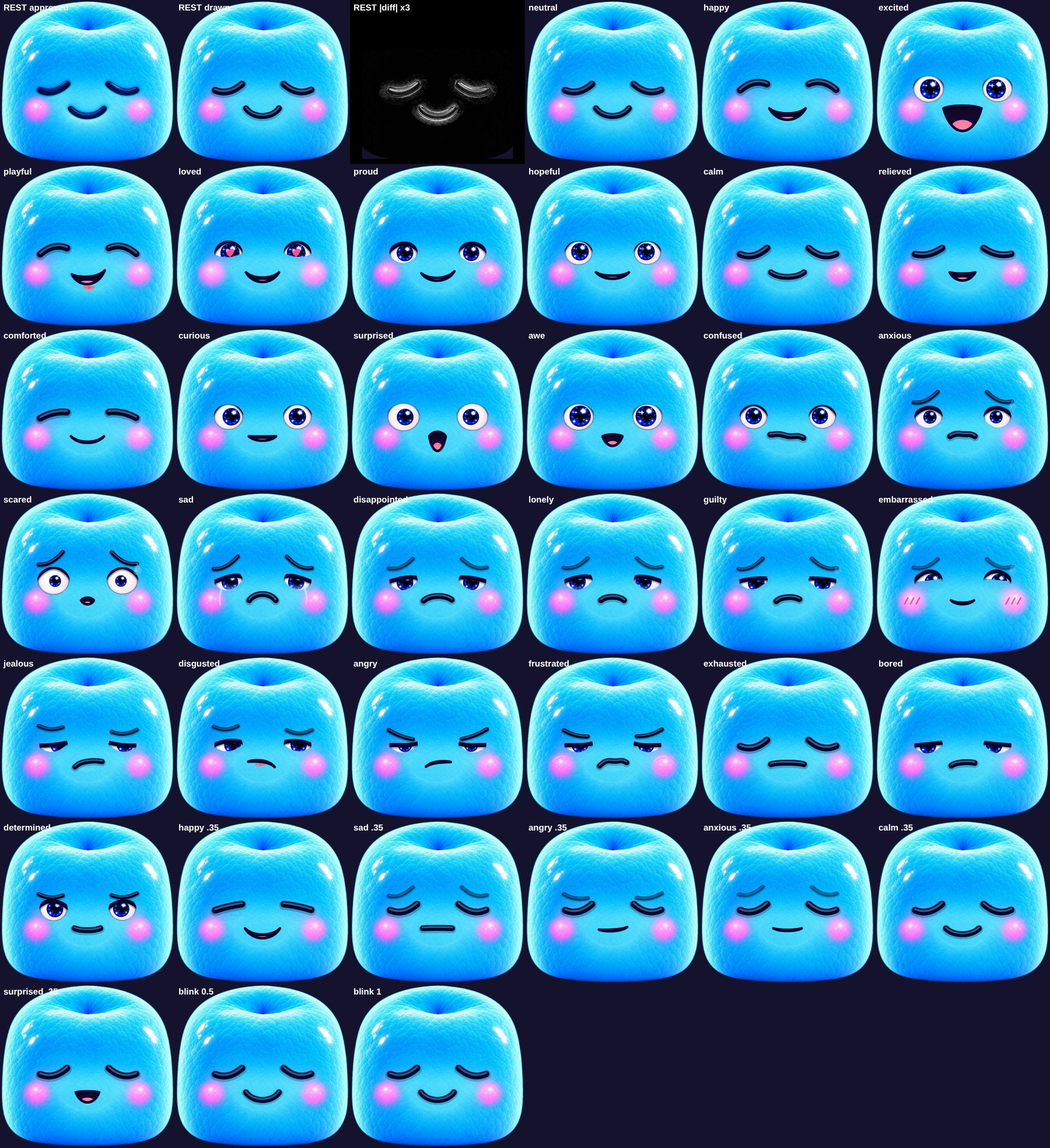
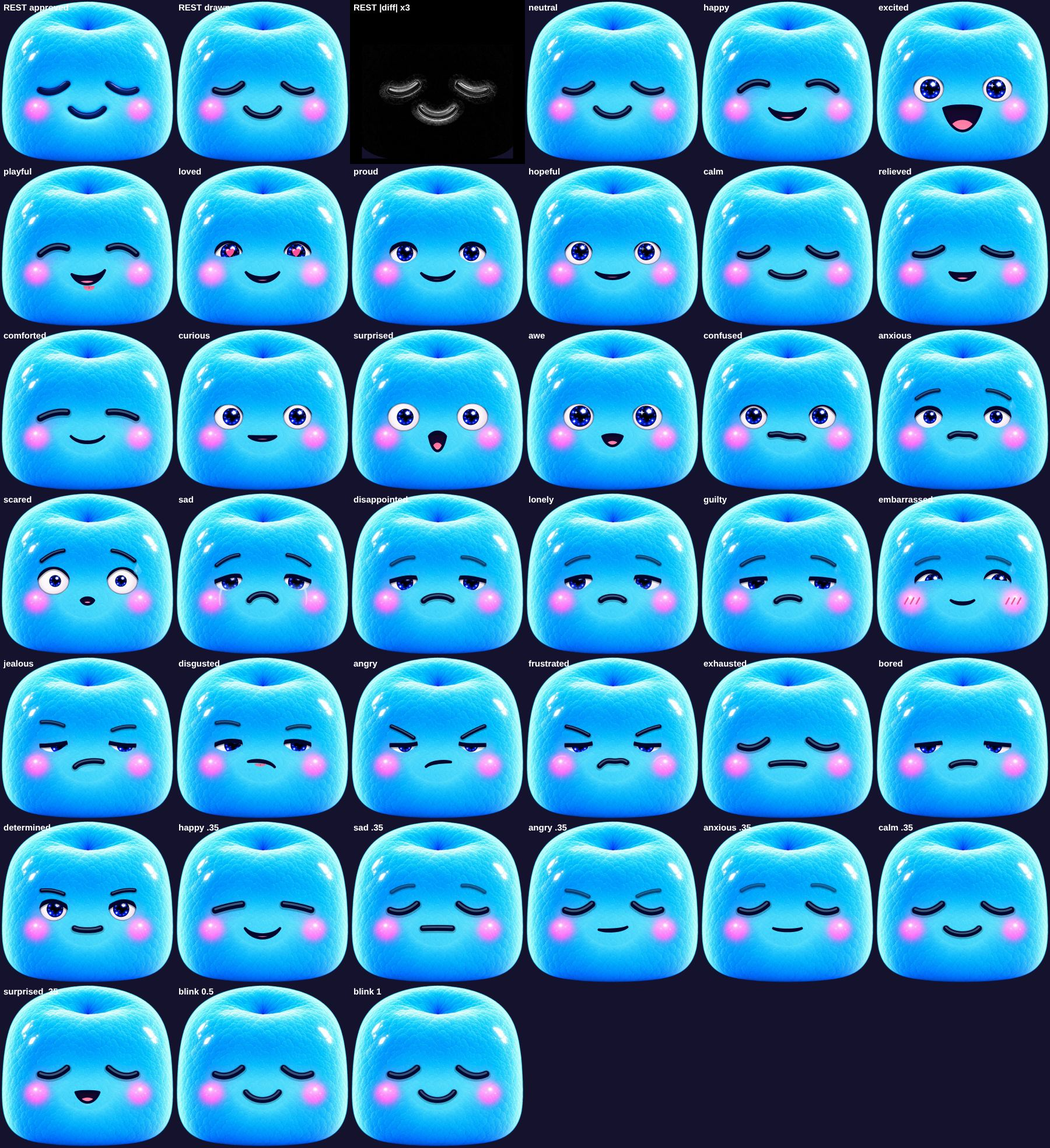
Hi-res Loomi: arched brows, a stale-proof sweep record, review fixes
Adversarial review r1:
- brows: the browless drawing kept the old drawing's second lid arcs as its
  hidden brows, which faded in as a ghost double eyelid (concerned, sad,
  anxious). build_table.py LOOMI_BROWS: arched brows above the eyes, alpha 0
  at rest; hires.js regenerated (only Loomi's brow lines change)
- tests: the verified list is pinned exactly again (pipzi alone left out of
  the pin for its own branch); the recorded sweep carries a fingerprint of
  Loomi's table and files (loomi-fingerprint.mjs) and fails when stale; the
  brows must arch clear of the eyes; one threshold for the concerned mouth
  (the hushed limits plus the spring's overshoot)
- lab: mode=mouths holds the concerned talking frames to the stage limits;
  kind=old without hires=0 throws; loomi-sweep.cjs PERF=n runs interleaved
  old/new frame times; README and run.sh's verified list updated

Claude-Session: https://claude.ai/code/session_01PTMVzk87fyReNC1jbKp1HZ

diff --git a/hushmallow/tools/hires/lab/check.js b/hushmallow/tools/hires/lab/check.js
@@ -36,6 +36,8 @@ const tableUrl = Q.get('table') ? new URL(Q.get('table'), location.href).href : 
 
 let RIG, H;
 function make(mid, kind, el, opts = {}) {
+  // kind=old needs the original drawing as its base: without &hires=0 a switched Mallow would draw its new art labelled "old"
+  if (kind === 'old' && MALLOWS[mid].hires) throw new Error(`kind=old: ${mid} is already switched to its high-res rig; add &hires=0 to the URL`);
   // a rig captures MALLOWS[id] when it is built: swap only around the constructor
   const keep = MALLOWS[mid];
   if (kind === 'new') { MALLOWS[mid] = H.hiresMallow(keep, mid); Object.assign(SPRITES, H.HIRES[mid].sprites); }
@@ -248,8 +250,10 @@ async function live() {
 
 // mouth states and talking frames (the Loomi sweep, loomi-sweep.cjs): every
 // mouth parameter at its extremes on rest / happy / concerned, and a talking
-// cycle (mouthOpen 0 -> .6 -> 0) on rest and on the concerned stage, whose
-// smile must never turn up (window.__mouths.concernedSmileMax)
+// cycle (mouthOpen 0 -> .6 -> 0) on rest and on the concerned stage, the
+// concerned cells held to the stage's limits as the rig holds them
+// (applyStageLimits: its mouth never opens or smiles past .1 / .2), so the
+// sheet shows what the app can show. window.__info: the concerned maxima.
 async function mouths() {
   const kind = Q.get('kind') || 'new';
   const rig = make(id, kind, holder(), { pristine: false, skinSize: SK, reducedMotion: true });
@@ -264,11 +268,21 @@ async function mouths() {
     if (bn === 'concerned' && tn) continue;                      // the concerned stage keeps its own mouth (below)
     cells.push([`${bn} ${tn}`.trim(), snap({ skin: renderAt(rig, { ...b, ...t }, { pristine: false, restMix: 0 }) })]);
   }
+  const { applyStageLimits, stageLimits } = RIG.expressions;
+  const lim = stageLimits('concerned');
+  let smileMax = -Infinity, openMax = -Infinity;
   for (const [bn, b] of [['rest', bases.rest], ['concerned', bases.concerned]]) {
-    for (const o of [0, 0.2, 0.4, 0.6, 0.4, 0.2]) cells.push([`talk ${bn} ${o}`, snap({ skin: renderAt(rig, { ...b, mouthOpen: Math.max(b.mouthOpen, o) }, { pristine: false, restMix: 0 }) })]);
+    for (const o of [0, 0.2, 0.4, 0.6, 0.4, 0.2]) {
+      const P = { ...b, mouthOpen: Math.max(b.mouthOpen, o) };
+      if (bn === 'concerned') {
+        applyStageLimits(P, lim, bases.concerned);
+        smileMax = Math.max(smileMax, P.mouthSmile); openMax = Math.max(openMax, P.mouthOpen);
+      }
+      cells.push([`talk ${bn} ${o}`, snap({ skin: renderAt(rig, P, { pristine: false, restMix: 0 }) })]);
+    }
   }
   window.__out = sheet(cells, +(Q.get('cw') || 260), +(Q.get('cols') || 6)).toDataURL('image/png');
-  window.__info = { concernedSmileMax: bases.concerned.mouthSmile, concernedOpen: bases.concerned.mouthOpen, n: cells.length };
+  window.__info = { concernedSmileMax: smileMax, concernedOpenMax: openMax, n: cells.length };
 }
 
 async function jump() {

diff --git a/hushmallow/src/mallows/hires.js b/hushmallow/src/mallows/hires.js
@@ -36,9 +36,9 @@
 // check. HIRES_VERIFIED lists the ones that passed; applyHires() applies those
 // (or the ids you pass) to the registry objects, once, before rigs load.
 // The cyan file without brows is Loomi (owner-approved, workstream
-// hires-loomi): no brows at rest, as drawn; they appear only when an
-// expression raises browAlpha, as on Noomi. Sweeps:
-// docs/workstreams/hires-loomi.md.
+// hires-loomi): no brows at rest, as drawn; arched brows (build_table.py
+// LOOMI_BROWS) appear only when an expression raises browAlpha, as on Noomi.
+// Sweeps: docs/workstreams/hires-loomi.md.
 //
 // Integration (after the patch is merged): in registry.js, once, at the end:
 //   import { applyHires } from './hires.js';  applyHires(MALLOWS, SPRITES);
@@ -547,16 +547,16 @@ const T = {
       },
       brows: {
         L: {
-          p0: [84.8, 163.1],
-          c: [111, 175.1],
-          p1: [137.3, 155.1],
+          p0: [91, 155],
+          c: [115, 145],
+          p1: [139, 152],
           lw: 8.9,
           alpha: 0,
         },
         R: {
-          p0: [244.5, 155],
-          c: [271.9, 175.8],
-          p1: [299.4, 161.1],
+          p0: [246, 151.6],
+          c: [270, 144.6],
+          p1: [294, 154.6],
           lw: 8.8,
           alpha: 0,
         },

diff --git a/hushmallow/tools/hires/build_table.py b/hushmallow/tools/hires/build_table.py
@@ -55,7 +55,17 @@ GLITZI_ROUND_OPEN = {'surprised': 1.4, 'awe': 1.0, 'scared': 0.9}
 #   centred ~1 lw under the groove), not the faint ridge above the current
 #   rig draws; drawn here so the closed frown keeps its carved look at phone
 #   size. [colour, width, offset] in lw units, + = below.
-TWEAKS = {'glitzi': {('eyes', 'L', 'lw'): 6.0, ('eyes', 'R', 'lw'): 6.0,
+# Loomi (the browless cyan drawing, owner-approved; workstream hires-loomi):
+#   it paints no brows, so measure.py kept the OLD drawing's brow strokes
+#   relative to the eyes, and those were a second set of lid arcs (U-shaped,
+#   ~20 px above the closed eyes). Faded in by an expression (sad, anxious,
+#   the concerned stage) they read as a ghost double eyelid. These are brows
+#   proper: an arch (control point above the ends) ~30-45 px above the eyes,
+#   placed like Noomi's relative to its eyes, mirrored; still alpha 0 at rest.
+LOOMI_BROWS = {'L': {'p0': [91.0, 155.0], 'c': [115.0, 145.0], 'p1': [139.0, 152.0]},
+               'R': {'p0': [246.0, 151.6], 'c': [270.0, 144.6], 'p1': [294.0, 154.6]}}
+TWEAKS = {'loomi': {('brows', s, k): v for s, b in LOOMI_BROWS.items() for k, v in b.items()},
+          'glitzi': {('eyes', 'L', 'lw'): 6.0, ('eyes', 'R', 'lw'): 6.0,
                      ('mouth', 'depth'): 27.0, ('mouth', 'upper'): -22.0,
                      ('mouth', 'relief'): [['rgba(34,92,235,0.6)', 0.75, 0.95],
                                            ['rgba(150,190,255,0.16)', 0.5, -0.8]]}}
@@ -336,11 +346,10 @@ head = '''// High-res Mallow rigs: a patch table over registry.js (workstream W7
 // Decision D13: a Mallow switches to its high-res rig only after a visual
 // check. HIRES_VERIFIED lists the ones that passed; applyHires() applies those
 // (or the ids you pass) to the registry objects, once, before rigs load.
-// The cyan file without brows is treated as Loomi (owner to confirm): its
-// high-res rig has no brows at rest (they appear only when an expression
-// raises browAlpha), so Loomi stays off HIRES_VERIFIED until the owner says,
-// and switching six while Loomi keeps its old drawing mixes two styles in
-// the switcher: switch all seven together, or none, for an owner build.
+// The cyan file without brows is Loomi (owner-approved, workstream
+// hires-loomi): no brows at rest, as drawn; arched brows (build_table.py
+// LOOMI_BROWS) appear only when an expression raises browAlpha, as on Noomi.
+// Sweeps: docs/workstreams/hires-loomi.md.
 //
 // Integration (after the patch is merged): in registry.js, once, at the end:
 //   import { applyHires } from './hires.js';  applyHires(MALLOWS, SPRITES);

diff --git a/hushmallow/tools/hires/README.md b/hushmallow/tools/hires/README.md
@@ -18,7 +18,9 @@ Pillow; Node 18+; for step 4, Playwright with Chromium and a local server).
 `data/old-registry.json` is the registry *before* any high-res switch (the
 fixed input of step 2; do not regenerate it after `applyHires` is wired in).
 Hand decisions live in code with their reasons: `measure.py` NEUTRAL and
-MOUTH_LANDMARKS (painted open-mouth points), `build_table.py` TWEAKS (Glitzi's
+MOUTH_LANDMARKS (painted open-mouth points), `build_table.py` LOOMI_BROWS
+(arched brows for the browless drawing: the old drawing's strokes it kept
+were a second lid arc) and TWEAKS (Glitzi's
 lid line, its open-mouth depth / upper lip so an excited mouth stays inside
 the body, its crease relief) and PRESET_OVERRIDES (Glitzi's lids and round
 mouths per preset).
@@ -60,7 +62,18 @@ Serve the repo root (`python3 -m http.server 8000`), then:
   rig), `spin` (Zuzu's eyes at several spin angles), `overflow` (drawn face
   pixels outside the body alpha for every preset, stage and reaction, with
   spring overshoot), `jump` (rest-jump metric, all seven), `live` (ticking
-  rigs at several sizes; `run.cjs page`).
+  rigs at several sizes; `run.cjs page`), `mouths` (every mouth state on
+  rest / happy, and talking frames on rest and on the concerned stage, held
+  to its limits). `kind=old` needs `&hires=0` (it throws otherwise).
+* `lab/loomi-sweep.cjs` — the app sweep that verified Loomi (workstream
+  hires-loomi, `docs/workstreams/hires-loomi.md`): the Hushfold home with
+  Loomi chosen, every stage, the concerned stage under squeeze and tap,
+  MallowTouch tiers, the switcher, the Mallows scene, the V3 card, at
+  390x844 / 360x780 / 320x568, text 1 and 1.25, reduced motion; `PERF=3`
+  for interleaved old/new frame times at 4x CPU. Its numbers are recorded in
+  `data/loomi-sweep.json` with `loomi-fingerprint.mjs` (the table entry and
+  files they were run against): `tests/hires.test.mjs` fails when either
+  changes, until the sweep is re-run and recorded.
 * Rest jump (`mode=jump`): mean |luminance| difference (0-255) in the face
   rect between the approved art and the drawn rest face on one frozen frame
   (t 1.234, no blink, reduced motion, skin 600), Zuzu's spirals at the
@@ -69,7 +82,7 @@ Serve the repo root (`python3 -m http.server 8000`), then:
 
   | | glitzi | zuzu (0.7) | boppo | pipzi | blubi | loomi | noomi |
   |---|---|---|---|---|---|---|---|
-  | high-res | 5.84 | 5.80 (11.83) | 7.53 | 7.47 | 5.04 | 3.59 | 3.45 |
+  | high-res | 5.84 | 5.80 (11.83) | 7.53 | 7.47 | 5.04 | 3.48 | 3.45 |
   | current | 15.73 | 6.90 (12.41) | 8.72 | 8.97 | 6.07 | 6.31 | 4.33 |
 
   A spinning Zuzu jumps by its phase, not its rig: W2, snap `spinAngle` to 0
